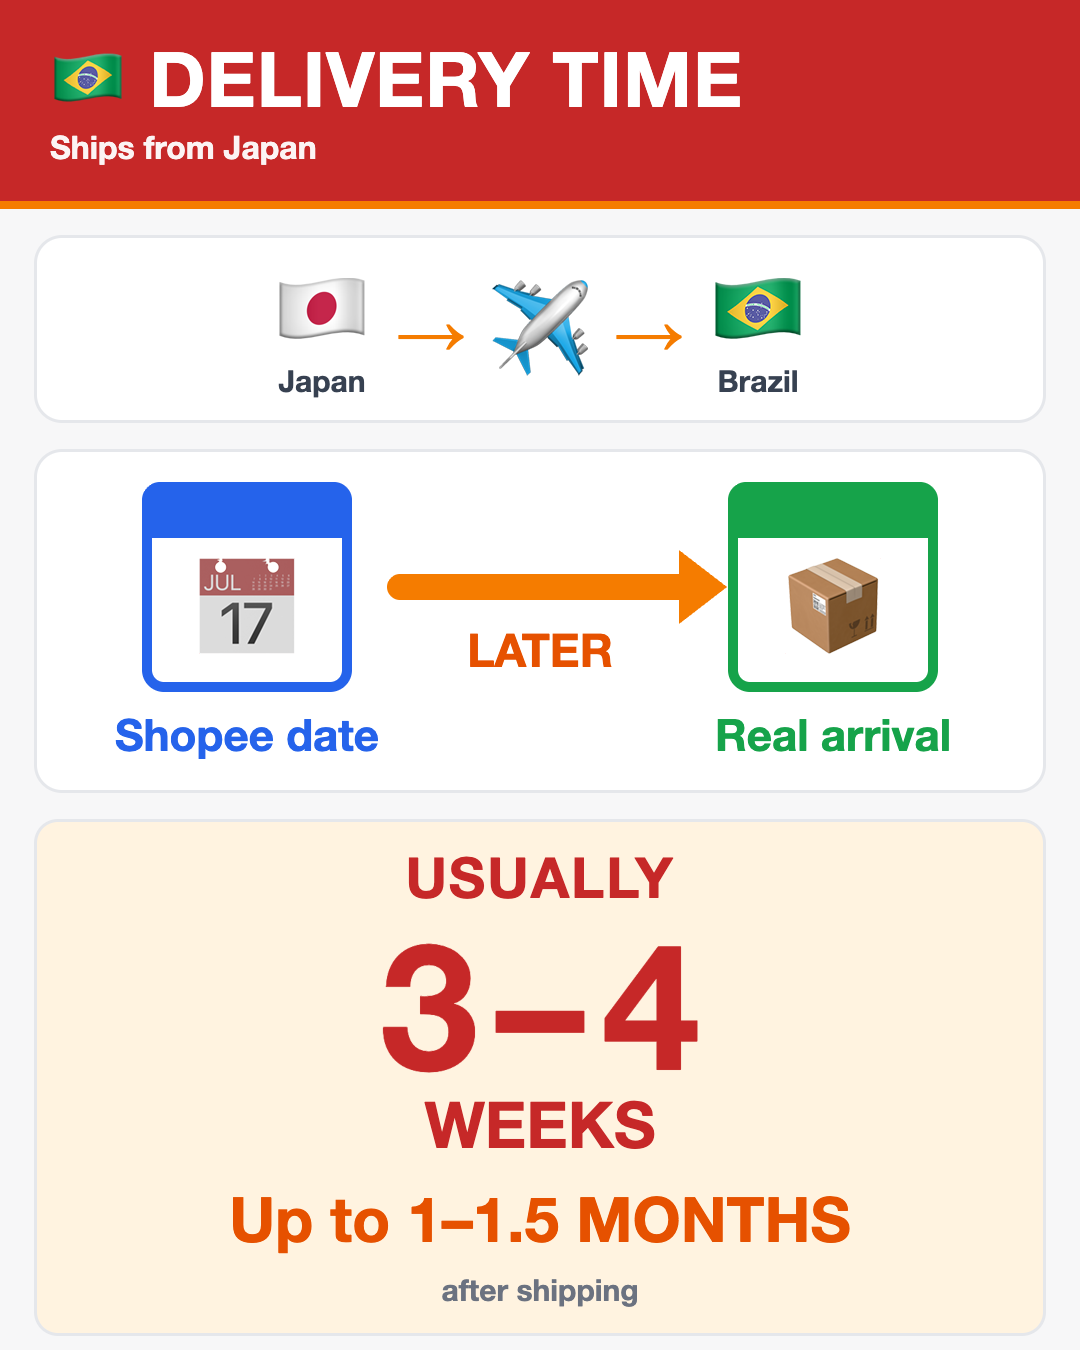
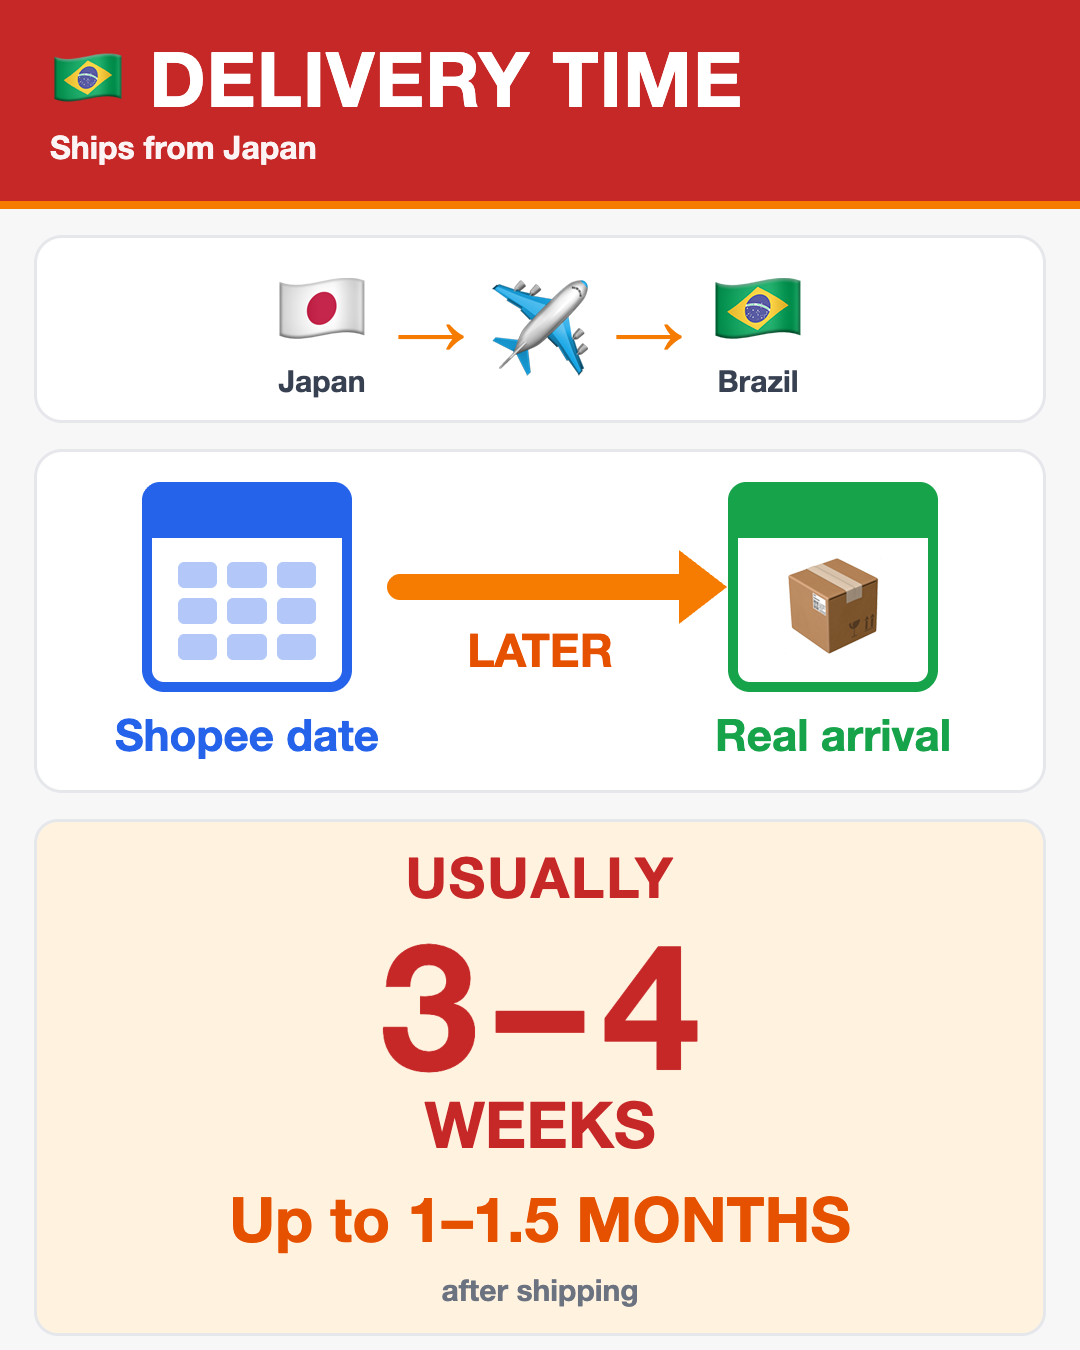
ブラジルの到着日数の絵：カレンダーの日付（JUL 17）を消した版に差し替え（7月17日と読まれないように・本人「この形でOK」・03 営業部）

Changed region(s): [[0.1528, 0.4044, 0.3056, 0.4978]]

diff --git a/tools/br_eta_gap.html b/tools/br_eta_gap.html
@@ -15,6 +15,7 @@ body{width:1080px;height:1350px;font-family:-apple-system,"Helvetica Neue",Arial
 .c .ic:before{content:"";position:absolute;left:-10px;right:-10px;top:-10px;height:56px;background:currentColor;border-radius:18px 18px 0 0}
 .c .ic b{position:absolute;left:0;right:0;top:66px;font-size:96px;line-height:1}
 .c .t{font-size:44px;font-weight:900;margin-top:16px}
+.c .grid{position:absolute;left:26px;right:26px;top:70px;bottom:22px;display:grid;grid-template-columns:repeat(3,1fr);gap:10px}.c .grid i{background:currentColor;opacity:.35;border-radius:6px}
 .s{color:#2563eb}.r{color:#16a34a}
 .mid{position:absolute;left:330px;right:330px;top:62px;text-align:center}
 .mid .arrow{height:26px;background:#f57c00;border-radius:13px;position:relative;margin-top:30px}
@@ -31,7 +32,7 @@ body{width:1080px;height:1350px;font-family:-apple-system,"Helvetica Neue",Arial
 </div>
 <div class="card" style="padding:30px 20px 28px">
  <div class="cal">
-  <div class="c s"><div class="ic"><b>📅</b></div><div class="t">Shopee date</div></div>
+  <div class="c s"><div class="ic"><div class="grid"><i></i><i></i><i></i><i></i><i></i><i></i><i></i><i></i><i></i></div></div><div class="t">Shopee date</div></div>
   <div class="mid"><div class="arrow"></div><div class="late">LATER</div></div>
   <div class="c r"><div class="ic"><b>📦</b></div><div class="t">Real arrival</div></div>
  </div>
